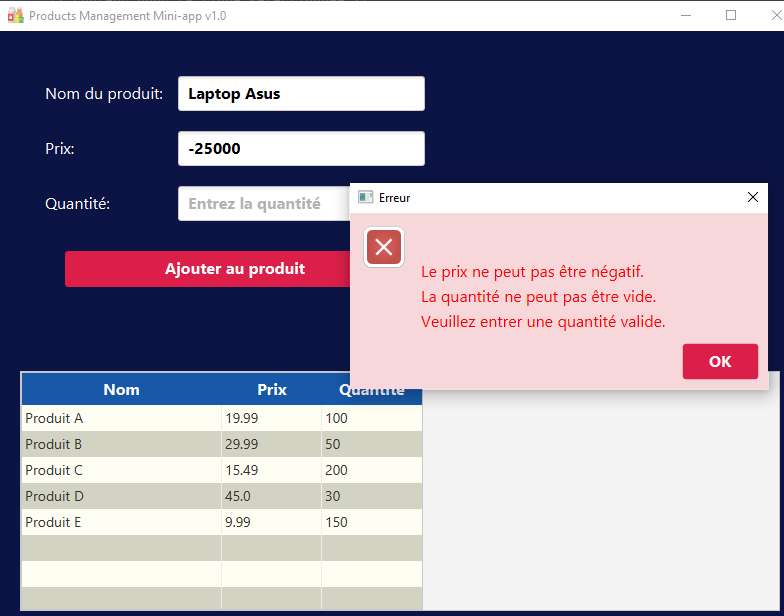
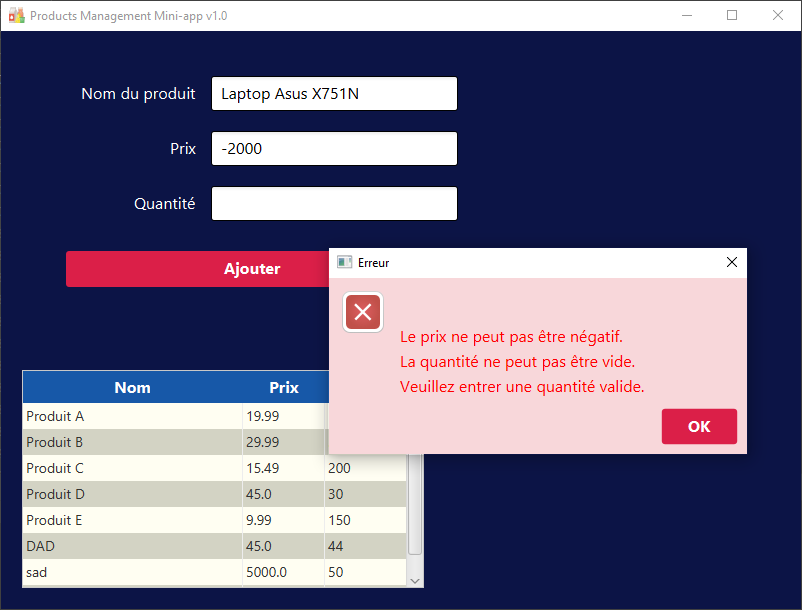
make scrollpane transparent bg + align labels right

diff --git a/src/main/resources/com/sebaaismail/miniappproducts/styles.css b/src/main/resources/com/sebaaismail/miniappproducts/styles.css
@@ -13,7 +13,7 @@
 
 .text-field {
     -fx-text-fill: black;
-    -fx-font-weight: 700;
+    -fx-font-weight: 600;
 }
 
 .button:hover {
@@ -54,6 +54,7 @@
 /* Couleur de fond du BorderPane */
 .root {
     -fx-background-color: #0C1446;
+    -fx-background: #0C1446;
 }
 
 .alert {
@@ -67,4 +68,14 @@
 
 .alert .header {
     -fx-font-size: 18px;
+}
+
+.scroll-pane {
+    -fx-background-color: transparent;
+}
+
+.products-form-grid-pane .label {
+ -fx-alignment: center-right;
+ -fx-min-width:150;
+ -fx-font-weight: 600;
 }

diff --git a/src/main/java/com/sebaaismail/miniappproducts/view/ProduitView.java b/src/main/java/com/sebaaismail/miniappproducts/view/ProduitView.java
@@ -70,24 +70,24 @@ public class ProduitView {
         form.setPadding(new Insets(10));
 
         GridPane grid = new GridPane();
+        grid.getStyleClass().add("products-form-grid-pane");
         grid.setHgap(15);
         grid.setVgap(20);
         grid.setPadding(new Insets(15));
 
-        Label nomLabel = new Label("Nom du produit:");
+        Label nomLabel = new Label("Nom du produit");
 
         nomField = new TextField();
         nomField.prefWidthProperty().bind(grid.widthProperty().divide(3));
         nomField.setMinWidth(200);
-        nomField.setPromptText("Entrez le nom du produit");
+        //nomField.setPromptText("Entrez le nom du produit");
 
-        Label prixLabel = new Label("Prix:");
+        Label prixLabel = new Label("Prix");
+
         prixField = new TextField();
-        prixField.setPromptText("Entrez le prix");
 
-        Label quantiteLabel = new Label("Quantité:");
+        Label quantiteLabel = new Label("Quantité");
         quantiteField = new TextField();
-        quantiteField.setPromptText("Entrez la quantité");
 
         grid.add(nomLabel, 0, 0);
         grid.add(nomField, 1, 0);
@@ -97,7 +97,7 @@ public class ProduitView {
         grid.add(quantiteField, 1, 2);
 
         // Crée le bouton d'ajout
-        addButton = new Button("Ajouter au produit");
+        addButton = new Button("Ajouter");
         addButton.setMaxWidth(Double.MAX_VALUE); // Définit une largeur préférée pour le bouton
         addButton.setPrefHeight(40);
 
